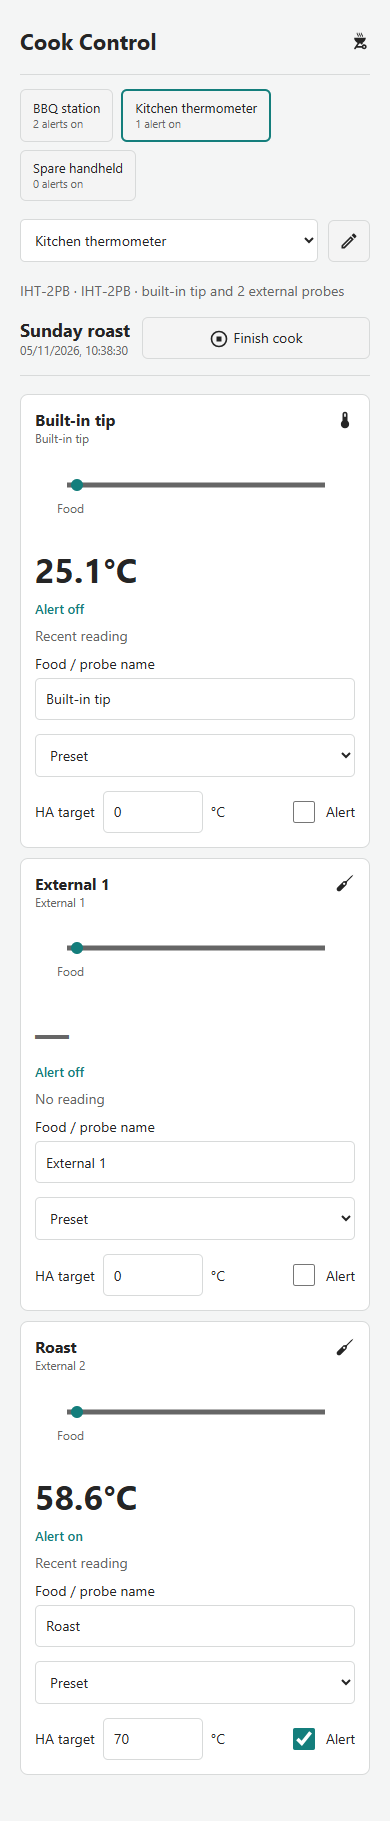
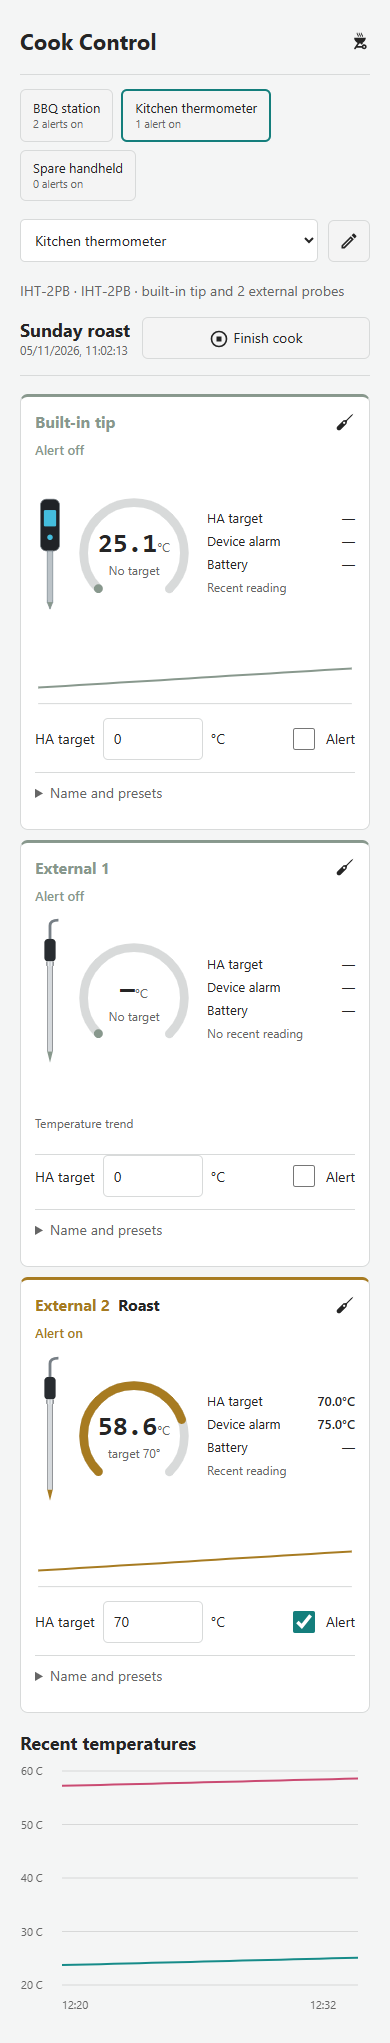
fix: retain Cook Control graphics and custom preset editor

diff --git a/examples/cook_control/www/inkbird-int/inkbird-cook-panel.js b/examples/cook_control/www/inkbird-int/inkbird-cook-panel.js
@@ -1,4 +1,5 @@
 import {escape as e, selectedDevice, formatTemperature as temp, csv, loadHistory, series} from './inkbird-cook-session.mjs?v=1.2.0';
+import {probeColor,probeFigure,dial,sparkline} from './inkbird-cook-visuals.mjs?v=1.2.0';
 
 const style = `
 :host{display:block;color:var(--primary-text-color);font:14px system-ui;letter-spacing:0;max-width:1400px;margin:0 auto;padding:12px 20px 28px}
@@ -13,16 +14,23 @@ h1{font-size:24px;margin:0}h2{font-size:18px;margin:0}h3{font-size:16px;margin:0
 header{display:flex;align-items:center;justify-content:space-between;gap:12px;flex-wrap:wrap;padding:14px 0 18px;border-bottom:1px solid var(--divider-color)}
 .toolbar,.row{display:flex;gap:10px;align-items:center;flex-wrap:wrap}.toolbar select{max-width:100%;flex:1;min-width:190px}.toolbar{margin:18px 0}
 .overview{display:flex;gap:8px;flex-wrap:wrap;margin-top:14px}.overview button{font-size:13px;text-align:left}.overview .chosen{border:2px solid var(--primary-color)}
-.grid{display:grid;grid-template-columns:repeat(auto-fit,minmax(min(100%,300px),1fr));gap:14px;margin:18px 0}
+.grid{display:grid;grid-template-columns:repeat(2,minmax(0,1fr));gap:14px;margin:18px 0}
 article{background:var(--ha-card-background,var(--card-background-color,#fff));border:1px solid var(--divider-color);border-radius:8px;padding:18px;min-width:0;overflow-wrap:anywhere}
-.reading{font-size:38px;font-weight:650;margin:16px 0 8px}.stale .reading{color:var(--secondary-text-color)}.status{font-size:13px;font-weight:600;color:var(--primary-color)}
-.probe{width:100%;height:58px;margin:12px 0}.probe line{stroke:var(--secondary-text-color);stroke-width:5}.probe text{fill:var(--secondary-text-color);font:12px system-ui}.probe circle{fill:var(--primary-color)}
+.status{font-size:13px;font-weight:600;color:var(--probe-color)}
+.probe-card{border-top:3px solid var(--probe-color)}.probe-tag{color:var(--probe-color);font-weight:700;margin-right:8px}
+.instrument{display:grid;grid-template-columns:30px 144px minmax(0,1fr);gap:14px;align-items:center;min-height:170px;margin:8px 0}.probe-figure{width:30px;height:166px;display:block;margin:auto}
+.dial{position:relative;width:136px;height:136px;margin:auto}.dial svg{width:100%;height:100%;display:block}.dial-label{position:absolute;inset:0;display:flex;flex-direction:column;align-items:center;justify-content:center;gap:3px}.dial-label strong{font:650 27px ui-monospace,monospace;white-space:nowrap}.dial-label small{font:13px system-ui}.dial-label span{font-size:12px;color:var(--secondary-text-color)}
+.metrics{display:grid;gap:7px;font-size:14px;min-width:0}.metrics div{display:flex;justify-content:space-between;gap:8px;flex-wrap:wrap}.metrics b{font-weight:600}.metrics small{font-size:12px}
+.spark{display:block;width:100%;height:64px;margin:8px 0}.spark-empty{height:64px;display:flex;align-items:center;font-size:12px;color:var(--secondary-text-color);border-bottom:1px solid var(--divider-color)}
+.probe-settings{border-top:1px solid var(--divider-color);padding-top:10px;margin-top:12px}.probe-settings summary{cursor:pointer;min-height:32px;color:var(--secondary-text-color)}.probe-settings .settings{padding-top:12px}.custom-preset{border-left:3px solid var(--primary-color);padding:12px;display:grid;gap:12px;background:var(--secondary-background-color)}
 .settings{display:grid;gap:14px}.error{border-left:4px solid var(--error-color,#c33);padding:12px;margin:12px 0;overflow-wrap:anywhere}
 .session{display:flex;justify-content:space-between;gap:12px;align-items:end;flex-wrap:wrap;padding:16px 0;border-bottom:1px solid var(--divider-color)}.session .field{flex:1;min-width:180px}
 .history{width:100%;border-collapse:collapse;margin:16px 0}.history td,.history th{padding:12px 8px;border-bottom:1px solid var(--divider-color);text-align:left;overflow-wrap:anywhere}.history button{text-align:left}
 canvas{display:block;width:100%;height:260px}.legend{display:flex;gap:12px;flex-wrap:wrap;margin:8px 0}.legend span{border-bottom:3px solid var(--line);padding:3px}
 .split{display:flex;justify-content:space-between;gap:8px;align-items:center}.split>*{min-width:0}.event{padding:8px 0;border-bottom:1px solid var(--divider-color)}
-@media(max-width:550px){h1{font-size:22px}.history th:nth-child(3),.history td:nth-child(3){display:none}.session button{flex:1}.reading{font-size:34px}.grid{gap:10px}article{padding:14px}}
+@media(max-width:760px){.grid{grid-template-columns:minmax(0,1fr)}}
+@media(max-width:550px){h1{font-size:22px}.history th:nth-child(3),.history td:nth-child(3){display:none}.session button{flex:1}.grid{gap:10px}article{padding:14px}.instrument{grid-template-columns:26px 128px minmax(0,1fr);gap:9px}.dial{width:124px;height:124px}.metrics{font-size:13px;gap:6px}}
+@media(max-width:360px){:host{padding-left:10px;padding-right:10px}.instrument{grid-template-columns:24px 120px minmax(0,1fr);gap:6px}.dial{width:116px;height:116px}.metrics div{display:block}.metrics b{display:block}}
 `;
 
 class CookPanel extends HTMLElement {
@@ -61,6 +69,7 @@ class CookPanel extends HTMLElement {
   render(force=false){
     if(!this.config||(!force&&this.shadowRoot.activeElement?.matches('input:not([type=checkbox]),select')))return;
     const d=this.selected();
+    this.openCards=new Set([...this.shadowRoot.querySelectorAll('details[open]')].map(el=>el.closest('[data-channel]')?.dataset.channel));
     this.shadowRoot.innerHTML=`<style>${style}</style><header><h1>Cook Control</h1><ha-icon icon="mdi:grill"></ha-icon></header>
       ${this.error?`<div class="error" role="alert">${e(this.error)}</div>`:''}
       ${this.backendStatus!=='active'?`<div class="error" role="alert">${this.t('Cook Control backend is not active. Alerts are not being processed.','Il backend Cook Control non e attivo. Gli avvisi non vengono elaborati.')}</div>`:''}
@@ -81,17 +90,26 @@ class CookPanel extends HTMLElement {
   renderChannel(d,layout){
     const c=d.channels[layout.id],name=this.channelName(d,layout,c);
     const statuses={off:this.t('Alert off','Avviso spento'),stale:this.t('Waiting for fresh readings','In attesa di letture recenti'),cooking:this.t('Alert on','Avviso attivo'),ready:this.t('Above target','Sopra soglia'),notified:this.t('Notification sent','Avviso inviato')};
-    const iht=d.model==='iht2pb',external=iht&&layout.id!=='1';
-    return `<article data-channel="${layout.id}" class="${c.fresh?'':'stale'}"><div class="split"><h3>${e(name)}</h3><ha-icon icon="mdi:thermometer${external?'-probe':''}"></ha-icon></div><small>${e(layout.name)}</small>
-      <svg class="probe" viewBox="0 0 300 58" role="img" aria-label="${iht?this.t('One temperature sensor','Un sensore temperatura'):this.t('Food at the tip, ambient at the handle','Cuore in punta, ambiente sul manico')}"><line x1="22" y1="25" x2="280" y2="25"/><circle cx="32" cy="25" r="6"/><text x="12" y="53">${this.t('Food','Cuore')}</text>${iht?'':`<circle cx="258" cy="25" r="6"/><text x="221" y="53">${this.t('Ambient','Ambiente')}</text>`}</svg>
-      <div class="reading">${temp(c.temperature)}</div><div class="status">${statuses[c.status]||e(c.status)}${c.status==='ready'?` &middot; ${Math.min(30,Math.floor(c.ready_seconds))}/30 s`:''}</div>
-      <p class="muted">${c.fresh?this.t('Recent reading','Lettura recente'):c.temperature==null?this.t('No reading','Nessuna lettura'):this.t('Last reading, not current','Ultima lettura, non attuale')}${!iht?` &middot; ${this.t('Ambient','Ambiente')} ${temp(c.ambient)}`:''}${c.battery!==null&&c.battery!==undefined?` &middot; ${c.battery}%`:''}</p>
-      <div class="settings"><label class="field">${this.t('Food / probe name','Pietanza / nome sonda')}<input data-setting="name" value="${e(c.name===layout.name?name:c.name)}" maxlength="100"></label>
-      <select data-preset aria-label="Preset"><option value="">${this.t('Preset','Preset')}</option>${[['Beef Brisket',93],['Chicken',74],['Medium Steak',57],['Pork Ribs',90],['Salmon',52]].map(([label,value])=>`<option value="${label}|${value}">${label} &middot; ${value}\u00b0C</option>`).join('')}<option value="custom">${this.t('My preset','Il mio preset')}</option></select>
+    const iht=d.model==='iht2pb',color=probeColor(c),editing=this.customEditor?.device===d.id&&this.customEditor?.channel===layout.id;
+    const status=c.status==='cooking'&&c.fresh&&c.target>0&&c.temperature>=c.target-5?this.t('Near target','Vicino alla soglia'):statuses[c.status]||e(c.status);
+    return `<article data-channel="${layout.id}" class="probe-card ${c.fresh?'':'stale'}" style="--probe-color:${color}"><div class="split"><h3><span class="probe-tag">${iht?e(layout.name):'P'+layout.id}</span>${e(name===layout.name?'':name)}</h3><ha-icon icon="mdi:thermometer-probe"></ha-icon></div>
+      <p class="status">${status}${c.status==='ready'?` &middot; ${Math.min(30,Math.floor(c.ready_seconds))}/30 s`:''}</p>
+      <div class="instrument">${probeFigure(d.model,layout.id,color)}${dial(c,{target:this.t('target','soglia'),noTarget:this.t('No target','Nessuna soglia')})}<div class="metrics">
+      ${!iht?`<div><span>${this.t('Ambient','Ambiente')}</span><b>${temp(c.ambient)}</b></div>`:''}
+      <div><span>${this.t('HA target','Soglia HA')}</span><b>${c.target>0?temp(c.target):'\u2014'}</b></div>
+      <div><span>${this.t(iht?'Device alarm':'Station alarm',iht?'Allarme IHT':'Allarme station')}</span><b>${temp(c.device_target)}</b></div>
+      <div><span>${this.t('Battery','Batteria')}</span><b>${Number.isFinite(c.battery)?`${c.battery}%`:iht&&Number.isFinite(c.battery_raw)?`${this.t('level','livello')} ${c.battery_raw}`:'\u2014'}</b></div>
+      ${c.battery_suspect?`<small>${this.t('Suspect battery report','Dato batteria sospetto')}</small>`:''}
+      <small>${c.fresh?this.t('Recent reading','Lettura recente'):this.t('No recent reading','Nessuna lettura recente')}</small></div></div>
+      ${sparkline(d.recent||[],layout.id,color,this.t('Temperature trend','Andamento temperatura'))}
       <div class="split"><label>${this.t('HA target','Soglia HA')} <input data-setting="target" type="number" min="0" max="350" step="1" value="${c.target}" aria-label="${this.t('Target in Celsius','Soglia in gradi Celsius')}"> \u00b0C</label><label><input data-setting="armed" type="checkbox" ${c.armed?'checked':''} ${this.busy?'disabled':''}>${this.t('Alert','Avviso')}</label></div>
+      <details class="probe-settings" ${this.openCards?.has(layout.id)||editing?'open':''}><summary>${this.t('Name and presets','Nome e preset')}</summary><div class="settings"><label class="field">${this.t('Food / probe name','Pietanza / nome sonda')}<input data-setting="name" value="${e(c.name===layout.name?name:c.name)}" maxlength="100"></label>
+      <select data-preset aria-label="Preset"><option value="">${this.t('Preset','Preset')}</option>${[['Beef Brisket',93],['Chicken',74],['Medium Steak',57],['Pork Ribs',90],['Salmon',52]].map(([label,value])=>`<option value="${label}|${value}">${label} &middot; ${value}\u00b0C</option>`).join('')}<option value="custom">${this.t('My preset','Il mio preset')}</option></select>
+      ${editing?this.renderCustomPreset():''}</div></details>
       ${c.status==='notified'?`<div class="row"><button data-reminder="snooze" title="${this.t('Repeat after the snooze interval','Ripeti dopo l\'intervallo di rinvio')}"><ha-icon icon="mdi:alarm-snooze"></ha-icon> Snooze</button><button data-reminder="rest"><ha-icon icon="mdi:timer-outline"></ha-icon> ${this.t('Rest','Riposo')}</button><button class="icon" data-reminder="dismiss" title="${this.t('Cancel reminders','Annulla promemoria')}"><ha-icon icon="mdi:bell-off-outline"></ha-icon></button></div>`:''}
-      ${c.snooze||c.rest?`<small>${this.t('Reminder','Promemoria')}: ${new Date((c.snooze||c.rest)*1000).toLocaleTimeString()}</small>`:''}</div></article>`;
+      ${c.snooze||c.rest?`<small>${this.t('Reminder','Promemoria')}: ${new Date((c.snooze||c.rest)*1000).toLocaleTimeString()}</small>`:''}</article>`;
   }
+  renderCustomPreset(){const draft=this.customEditor.draft;return `<div class="custom-preset"><h3>${this.t('My preset','Il mio preset')}</h3><label class="field">${this.t('Preset name','Nome preset')}<input data-custom="name" value="${e(draft.name)}" maxlength="100"></label><label>${this.t('Temperature','Temperatura')} <input data-custom="target" type="number" min="1" max="350" step="1" value="${draft.target}"> \u00b0C</label><div class="row"><button data-custom-action="save" title="${this.t('Save preset without changing the cook','Salva il preset senza cambiare la cottura')}"><ha-icon icon="mdi:content-save-outline"></ha-icon> ${this.t('Save','Salva')}</button><button data-custom-action="apply" class="primary">${this.t('Use on this probe','Usa su questa sonda')}</button><button class="icon" data-custom-action="cancel" title="${this.t('Close without applying','Chiudi senza applicare')}"><ha-icon icon="mdi:close"></ha-icon></button></div>${this.presetSaved?`<small>${this.t('Preset saved','Preset salvato')}</small>`:''}</div>`;}
   renderHistory(){
     return `<h2 style="margin-top:20px">${this.t('Cooking history','Storico cotture')}</h2><table class="history"><thead><tr><th>${this.t('Cook','Cottura')}</th><th>${this.t('Thermometer','Termometro')}</th><th>${this.t('Started','Inizio')}</th></tr></thead><tbody>${this.data.history.map(row=>`<tr><td><button data-history="${row.id}">${e(row.name)}${row.ended?'':` &middot; ${this.t('active','in corso')}`}</button></td><td>${e(row.device_name)}</td><td>${new Date(row.started*1000).toLocaleString()}</td></tr>`).join('')}</tbody></table>
       ${this.history?`<div class="split"><h2>${e(this.history.summary.name)}</h2><div class="row"><button data-export="csv"><ha-icon icon="mdi:download"></ha-icon> CSV</button><button data-export="json" title="${this.t('Download full session','Scarica sessione completa')}">JSON</button></div></div><div class="legend">${this.history.summary.layout.map((c,i)=>`<span style="--line:${['#168b89','#e38b19','#ca4a72','#6476d2'][i]}">${e(c.name)}</span>`).join('')}</div><canvas aria-label="${this.t('Recorded temperatures in Celsius','Temperature registrate in gradi Celsius')}" role="img"></canvas><small>${this.t('Solid: food. Dotted: ambient. Gaps: no recent reading.','Linea continua: cuore. Tratteggio: ambiente. Vuoti: nessuna lettura recente.')}</small>
@@ -104,10 +122,19 @@ class CookPanel extends HTMLElement {
     const start=this.shadowRoot.querySelector('#start');if(start)start.onclick=()=>this.act('start',{device_id:d.id,name:this.shadowRoot.querySelector('#cookname').value});
     const finish=this.shadowRoot.querySelector('#finish');if(finish)finish.onclick=()=>{if(confirm(this.t('Finish this cook and switch off only its alerts?','Terminare questa cottura e spegnere solo i suoi avvisi?')))this.act('finish',{device_id:d.id});};
     this.shadowRoot.querySelectorAll('[data-setting]').forEach(el=>el.onchange=()=>{const field=el.dataset.setting;this.act('configure',{device_id:d.id,channel:el.closest('[data-channel]').dataset.channel,settings:{[field]:field==='armed'?el.checked:field==='target'?Number(el.value):el.value}});});
-    this.shadowRoot.querySelectorAll('[data-preset]').forEach(el=>el.onchange=()=>{if(!el.value)return;let [name,target]=el.value.split('|');if(el.value==='custom'){name=this._hass.states['input_text.bbq_custom_name']?.state;target=this._hass.states['input_number.bbq_custom_target']?.state;}this.act('configure',{device_id:d.id,channel:el.closest('[data-channel]').dataset.channel,settings:{name,target:Number(target)}});});
+    this.shadowRoot.querySelectorAll('[data-preset]').forEach(el=>el.onchange=()=>{if(!el.value)return;const channel=el.closest('[data-channel]').dataset.channel;if(el.value==='custom'){const stored=this._hass.states['input_text.bbq_custom_name']?.state;this.customEditor={device:d.id,channel,draft:{name:stored&&!['unknown','unavailable'].includes(stored)?stored:this.t('Custom','Personalizzato'),target:Number(this._hass.states['input_number.bbq_custom_target']?.state)||60}};this.presetSaved=false;this.render(true);return;}const [name,target]=el.value.split('|');this.act('configure',{device_id:d.id,channel,settings:{name,target:Number(target)}});});
+    this.shadowRoot.querySelectorAll('[data-custom]').forEach(el=>el.oninput=()=>{this.customEditor.draft[el.dataset.custom]=el.dataset.custom==='target'?Number(el.value):el.value;this.presetSaved=false;});
+    this.shadowRoot.querySelectorAll('[data-custom-action]').forEach(el=>el.onclick=()=>this.customPreset(el.dataset.customAction));
     this.shadowRoot.querySelectorAll('[data-reminder]').forEach(el=>el.onclick=()=>this.act(el.dataset.reminder,{device_id:d.id,channel:el.closest('[data-channel]').dataset.channel}));
     this.shadowRoot.querySelectorAll('[data-history]').forEach(el=>el.onclick=async()=>{try{this.history=await loadHistory((...args)=>this.call(...args),el.dataset.history);this.error='';}catch(err){this.error=err.message;}this.render(true);});
     this.shadowRoot.querySelectorAll('[data-export]').forEach(el=>el.onclick=()=>{const format=el.dataset.export;const blob=new Blob([format==='csv'?csv(this.history):JSON.stringify(this.history,null,2)],{type:format==='csv'?'text/csv;charset=utf-8':'application/json'});const url=URL.createObjectURL(blob);const a=document.createElement('a');a.href=url;a.download=`cook-${this.history.summary.id}.${format}`;a.click();setTimeout(()=>URL.revokeObjectURL(url),1000);});
+  }
+  async customPreset(action){
+    if(action==='cancel'){this.customEditor=null;this.render(true);return;}
+    const editor=this.customEditor,draft=editor.draft,helper=this._hass.states['input_number.bbq_custom_target'];
+    if(!draft.name.trim()||draft.name.length>100||!Number.isFinite(draft.target)||draft.target<=0||draft.target>Math.min(350,helper?.attributes?.max??350)||draft.target<(helper?.attributes?.min??0)){this.error=this.t('Enter a preset name and a valid temperature.','Inserisci un nome e una temperatura valida.');this.render(true);return;}
+    if(action==='apply'){await this.act('configure',{device_id:editor.device,channel:editor.channel,settings:{name:draft.name.trim(),target:draft.target}});if(!this.error)this.customEditor=null;this.render(true);return;}
+    this.busy=true;try{await this._hass.callService('input_number','set_value',{entity_id:'input_number.bbq_custom_target',value:draft.target});await this._hass.callService('input_text','set_value',{entity_id:'input_text.bbq_custom_name',value:draft.name.trim()});this.presetSaved=true;this.error='';}catch(err){this.error=err.message||String(err);}finally{this.busy=false;this.render(true);}
   }
   draw(history){
     this.resize?.disconnect();const canvas=this.shadowRoot.querySelector('canvas');if(!canvas)return;

diff --git a/examples/cook_control/custom_components/inkbird_cook_control/engine.py b/examples/cook_control/custom_components/inkbird_cook_control/engine.py
@@ -29,6 +29,7 @@ class Engine:
         self.data = deepcopy(data) if data else {"devices": {}, "index": {}, "migrated": False}
         self.histories = {}
         self.pending = {}
+        self.live_history = {}
 
     def discover(self, descriptors):
         for descriptor in descriptors:
@@ -146,23 +147,12 @@ class Engine:
             sid = device["session"]
             history = self.histories.get(sid)
             current = readings.get(key, {})
+            recent = self.live_history.setdefault(key, [])
+            if not recent or now - recent[-1]["at"] >= SAMPLE_SECONDS:
+                recent.append(self.sample(device, current, now))
+                self.live_history[key] = recent[-120:]
             if history and (not history["samples"] or now - history["samples"][-1]["at"] >= SAMPLE_SECONDS):
-                history["samples"].append(
-                    {
-                        "at": now,
-                        "channels": {
-                            channel: {
-                                "temperature": row.get("temperature") if fresh(row, now) else None,
-                                "ambient": row.get("ambient") if fresh(row, now) else None,
-                                "battery": row.get("battery"),
-                                "target": config["target"],
-                                "armed": config["armed"],
-                            }
-                            for channel, config in device["channels"].items()
-                            if (row := current.get(channel, {})) is not None
-                        },
-                    }
-                )
+                history["samples"].append(self.sample(device, current, now))
                 self.data["index"][sid]["sample_count"] = len(history["samples"])
                 history["summary"] = deepcopy(self.data["index"][sid])
                 changed = True
@@ -213,6 +203,23 @@ class Engine:
                     changed = True
         warnings = self.warnings(readings, now, options or {})
         return notices + warnings, changed or bool(warnings)
+
+    @staticmethod
+    def sample(device, readings, now):
+        return {
+            "at": now,
+            "channels": {
+                channel: {
+                    "temperature": row.get("temperature") if fresh(row, now) else None,
+                    "ambient": row.get("ambient") if fresh(row, now) else None,
+                    "battery": row.get("battery"),
+                    "target": config["target"],
+                    "armed": config["armed"],
+                }
+                for channel, config in device["channels"].items()
+                if (row := readings.get(channel, {})) is not None
+            },
+        }
 
     def warnings(self, readings, now, options):
         notices = []
@@ -291,7 +298,8 @@ class Engine:
                     else "cooking"
                 )
             row["cook"] = deepcopy(self.data["index"].get(row["session"]))
-            row["recent"] = deepcopy(self.histories.get(row["session"], {}).get("samples", [])[-24:])
+            recorded = self.histories.get(row["session"], {}).get("samples", [])
+            row["recent"] = deepcopy((recorded or self.live_history.get(key, []))[-120:])
             result.append(row)
         return {
             "version": "1.2.0",

diff --git a/examples/cook_control/custom_components/inkbird_cook_control/__init__.py b/examples/cook_control/custom_components/inkbird_cook_control/__init__.py
@@ -74,6 +74,7 @@ def discover(hass):
                     "entity": entity,
                     "ambient_entity": None if iht else find(f"_probe_{index}_ambient_temp"),
                     "battery_entity": None if iht else find(f"_probe_{index}_battery"),
+                    "target_entity": find(f"_probe_{index}_target_high_temp"),
                 }
             )
         if len(layout) != (3 if iht else 4):
@@ -138,6 +139,8 @@ class Manager:
                     "temperature": temperature(self.hass, channel["entity"]),
                     "ambient": temperature(self.hass, channel["ambient_entity"]),
                     "battery": number(state_value(self.hass, channel["battery_entity"])),
+                    "device_target": temperature(self.hass, channel.get("target_entity")),
+                    "battery_raw": number(state_value(self.hass, device.get("battery_raw_entity"))),
                     "battery_suspect": (
                         self.hass.states.get(channel["battery_entity"]).attributes.get("report_suspect")
                         if self.hass.states.get(channel["battery_entity"] or "")

diff --git a/tests/test_cook_sessions.py b/tests/test_cook_sessions.py
@@ -226,3 +226,12 @@ def test_stall_waits_for_history_and_45_continuous_minutes(engine):
     for now in range(1000, 1000 + 3600, 30):
         notices.extend(engine.tick(readings(now, 60), now, {"stall": True})[0])
     assert len(notices) == 1 and notices[0]["kind"] == "stall"
+
+
+def test_unarmed_device_sparkline_is_bounded_and_does_not_create_a_cook(engine):
+    for now in range(1000, 1000 + 5000, 30):
+        assert not engine.tick(readings(now, 60), now)[0]
+    snapshot = engine.snapshot(readings(6000, 60), 6000)
+    assert all(len(d["recent"]) == 120 and d["session"] is None for d in snapshot["devices"])
+    assert not engine.data["index"]
+    assert all(not c["armed"] and c["target"] == 0 for d in snapshot["devices"] for c in d["channels"].values())

diff --git a/examples/cook_control/build_bundle.py b/examples/cook_control/build_bundle.py
@@ -12,6 +12,7 @@ FILES = {
     "www/inkbird-int/inkbird-int-cook-control.js": "www/inkbird-int/inkbird-int-cook-control.js",
     "www/inkbird-int/inkbird-cook-panel.js": "www/inkbird-int/inkbird-cook-panel.js",
     "www/inkbird-int/inkbird-cook-session.mjs": "www/inkbird-int/inkbird-cook-session.mjs",
+    "www/inkbird-int/inkbird-cook-visuals.mjs": "www/inkbird-int/inkbird-cook-visuals.mjs",
     "custom_components/inkbird_cook_control/__init__.py": "custom_components/inkbird_cook_control/__init__.py",
     "custom_components/inkbird_cook_control/engine.py": "custom_components/inkbird_cook_control/engine.py",
     "custom_components/inkbird_cook_control/manifest.json": "custom_components/inkbird_cook_control/manifest.json",

diff --git a/tests/test_cook_control.py b/tests/test_cook_control.py
@@ -266,7 +266,7 @@ def test_bundle_is_reproducible_and_has_no_household_or_development_files(tmp_pa
     builder["build"](second)
     assert first.read_bytes() == second.read_bytes()
     with ZipFile(first) as archive:
-        assert len(archive.namelist()) == 17
+        assert len(archive.namelist()) == 18
         assert set(archive.namelist()) == set(builder["FILES"].values()) | {"cook-control/LICENSE.integration"}
         for filename in archive.namelist():
             assert ".." not in Path(filename).parts

diff --git a/RELEASE_AUDIT.md b/RELEASE_AUDIT.md
@@ -17,12 +17,12 @@ The integration supports local BLE, local Tuya LAN where the model and DP map ha
 
 ## Cook Control 1.2.0, 2026-11-05
 
-- Optional preview bundle attached to `v0.2.11-beta.5`. A small separate backend owns per-device cooks, target/notification latches and private archives; it reads registered INT/IHT entities and sends through the existing notification router. It never calls a thermometer write service.
+- Optional preview bundle attached to stable `v0.2.11`. A small separate backend owns per-device cooks, target/notification latches and private archives; it reads registered INT/IHT entities and sends through the existing notification router. It never calls a thermometer write service.
 - Three simultaneous sessions on one INT-14-BW and two IHT-2PB devices were recorded, finished and exported on HA 2026.11.0. Legacy helper values were preserved. The user confirmed the two selected Echo announcements and silent LG popup; a true fresh-device threshold crossing remains pending.
-- 315 Python tests cover isolation, migration, restart latches, reminders, histories, spoken food names and explicit Echo destinations. Node checks cover the canonical strategy even with a cached old constructor. Desktop/mobile preview checks verify 4/3/3 food-channel layouts, no horizontal overflow, and no HA writes on view changes.
+- The Python suites cover isolation, migration, restart latches, reminders, histories, spoken food names and explicit Echo destinations. Node checks cover the canonical strategy even with a cached old constructor. Desktop/mobile checks verify 4/3/3 layouts, illustrated probes, circular gauges, no horizontal overflow, view-only selection, and custom preset save/apply isolation.
 - Upgrade instructions replace the strategy with `custom:inkbird-cook-control`, keep one versioned module resource, and explain the obsolete 1.1.0 confirmation dialog. Images are isolated previews with declared sample data, not screenshots of a private installation.
-- The deterministic optional bundle has 17 allowlisted entries, including the backend. No private device references, captures, tools, secrets or caches belong in it. Gitleaks and TruffleHog report no secrets; detect-secrets reports no findings in Cook Control and only existing reviewed field-name/UI-label matches elsewhere.
-- Main integration runtime is unchanged from beta.4 except for its manifest version. Integration stable remains v0.2.10; users can install the dashboard ZIP without the BLE beta. Publication is gated on Tests/HACS/Hassfest for the commit/tag and a downloaded-asset hash match.
+- The deterministic optional bundle has 18 allowlisted entries, including the backend and visual module. No private device references, captures, tools, secrets or caches belong in it. Gitleaks and TruffleHog report no secrets; detect-secrets reports no findings in Cook Control and only existing reviewed field-name/UI-label matches elsewhere.
+- The stable release is prepared in an isolated branch based on v0.2.10. Its thermometer Python runtime is byte-identical to that baseline except for the manifest version. Main retains the pending BLE changes under 0.2.12 development. Publication is gated on Tests/HACS/Hassfest for the stable commit/tag and a downloaded-asset hash match.
 
 ## Cook Control 1.1.0, 2026-11-04
 
@@ -64,11 +64,11 @@ The integration supports local BLE, local Tuya LAN where the model and DP map ha
 
 ## Release State
 
-Prerelease `v0.2.11-beta.5` publishes optional Cook Control 1.2.0 with independent
+Stable `v0.2.11` publishes optional Cook Control 1.2.0 with independent
 concurrent INT/IHT cooks, food-name announcements, persistent history and an
-updated showcase. Integration runtime is unchanged from beta.4 apart from the
-manifest version. The bundle also works with the stable integration and does not
-require installing the Bluetooth beta. See [Cook Control validation](examples/cook_control/VALIDATION.md).
+updated showcase. Its integration runtime is unchanged from v0.2.10 apart from
+the manifest version. The bundle also works with v0.2.10 and does not require
+installing the Bluetooth beta. See [Cook Control validation](examples/cook_control/VALIDATION.md).
 
 Prerelease `v0.2.11-beta.3` enabled continuous read-only GATT polling for
 INT-11I-B, following @tolixx's measurements in issue #9. Its decoder, entity
@@ -77,7 +77,7 @@ profile-level change; other models retain their beta.2 behavior. The
 packaged update still needs the reporter's follow-up on real hardware.
 
 The beta also retains the INT-12-BW parser and reconnect work from beta.1
-and beta.2. Stable remains `v0.2.10`. See the dated audits below.
+and beta.2. Those changes remain outside the stable v0.2.11 branch. See the dated audits below.
 
 Release `v0.2.10` adds the optional INT-14-BW Cook Control bundle, native Alexa/TV notification routing, bilingual setup guides and real dashboard screenshots. HACS still installs only the integration; the optional ZIP is installed separately. Runtime Python files are unchanged from `v0.2.7`; only the manifest version is bumped. The release retains the model photo gallery, Options/reload fixes and existing model-support boundaries.
 

diff --git a/examples/cook_control/VALIDATION.md b/examples/cook_control/VALIDATION.md
@@ -2,13 +2,14 @@
 
 ## Cook Control 1.2.0 Preview, 2026-11-05
 
-- 315 Python tests pass, including independent three-device alert latches, per-channel edits, restart recovery, migration, history gaps, friendly spoken names, battery/stall guards and explicit Alexa group membership. These include isolated HA boundary tests, not a substitute for physical cooking tests.
+- 316 Python tests pass on the development branch and 242 on the isolated stable-release branch. They cover independent three-device alert latches, per-channel edits, restart recovery, migration, history gaps, friendly spoken names, battery/stall guards and explicit Alexa group membership. These include isolated HA boundary tests, not a substitute for physical cooking tests.
 - Node frontend contracts pass. Playwright/Edge checks at 1440px and 390px verify four INT food cards and three cards per IHT, no horizontal overflow, no JavaScript errors, and no HA write calls when switching the view.
+- Illustrated probes, circular gauges and per-channel mini-graphs are retained. The custom preset editor is tested through opening, editing, cancelling, saving without target changes, and applying only to the selected device/channel. HA target/arming state is not changed by opening or saving a preset.
 - Installed on HA 2026.11.0 after backup and one authorized restart. Backend loaded successfully and discovered one INT-14-BW and two IHT-2PB devices through stable registry identities. Existing protected helper values survived unchanged.
 - Recorded three simultaneous sessions clearly named as installation checks, then finished and exported each one. No fake temperature states, armed alerts or threshold changes were used. With thermometers not supplying recent data, the records correctly contain gaps.
 - Verified the real dashboard selector, archive and CSV download. One end-to-end notification-router test called the two explicitly configured Echos and the configured LG webOS popup service. The trace finished without errors; monitored speaker/TV volumes were unchanged. This is software-path evidence, not proof of audible or visible physical delivery.
 - The user subsequently confirmed both Echo audio and the G5 popup after checking remotely. The repeated test again targeted only the two selected Echos and the TV service; thresholds and the user's current volumes remained unchanged. No fresh real-device threshold crossing has been tested with this backend yet.
-- Integration/domain/driver code is unchanged apart from the prerelease manifest version. The canonical strategy was tested against a pre-existing cached single-cook constructor; it does not reuse it. Installation guides explicitly migrate that strategy to prevent the old reset warning.
+- The stable release branch retains the v0.2.10 integration/domain/driver code apart from the manifest version. The canonical strategy was tested against a pre-existing cached single-cook constructor; it does not reuse it. Installation guides explicitly migrate that strategy to prevent the old reset warning.
 
 ## Cook Control 1.1.0
 
@@ -113,10 +114,10 @@ metadata; it includes no live configuration or captured diagnostics.
 
 ## Publication Boundary
 
-Cook Control 1.2.0 is an optional preview bundle attached to v0.2.11-beta.5. Integration
-runtime is unchanged from beta.4 apart from the manifest version. The INT-11I-B
+Cook Control 1.2.0 is an optional preview bundle attached to stable v0.2.11. Integration
+runtime is unchanged from v0.2.10 apart from the manifest version. The INT-11I-B
 and INT-12-BW connection changes remain beta work; they are not needed for this
-dashboard. Stable integration v0.2.10 remains available.
+dashboard. The bundle can also be installed alongside v0.2.10.
 
 HACS does not automatically install the dashboard: the package requires the
 documented configuration copy and resource registration. The IHT integration

diff --git a/README.md b/README.md
@@ -27,9 +27,9 @@ Use your **INT-14-BW and IHT-2PB thermometers together**. Each keeps its own foo
 
 **Keep the cook, not just the current temperature.** Start a named session, then revisit its graph, target changes and alerts in History. Download readings as CSV or the full session as JSON. Archives stay in HA, independently of Recorder cleanup.
 
-**[Download Cook Control 1.2.0](https://github.com/zampix1/ha-inkbird-int14/releases/download/v0.2.11-beta.5/inkbird-cook-control-1.2.0.zip)** &nbsp; / &nbsp; **[Install guide](https://github.com/zampix1/ha-inkbird-int14/blob/main/examples/cook_control/README.md)** &nbsp; / &nbsp; **[Guida italiana](https://github.com/zampix1/ha-inkbird-int14/blob/main/examples/cook_control/README.it.md)**
+**[Download Cook Control 1.2.0](https://github.com/zampix1/ha-inkbird-int14/releases/download/v0.2.11/inkbird-cook-control-1.2.0.zip)** &nbsp; / &nbsp; **[Install guide](https://github.com/zampix1/ha-inkbird-int14/blob/main/examples/cook_control/README.md)** &nbsp; / &nbsp; **[Guida italiana](https://github.com/zampix1/ha-inkbird-int14/blob/main/examples/cook_control/README.it.md)**
 
-Start with working thermometer entities. The ZIP contains the optional Cook Control backend, YAML package and dashboard files; the new cards do not need button-card, card-mod or mini-graph-card. **HACS installs the thermometer integration, not this separate bundle.** The ZIP works with the stable integration: its download is attached to beta.5, but you do not need the beta's Bluetooth changes to use it. The backend currently requires an administrator HA account.
+Start with working thermometer entities. The ZIP contains the optional Cook Control backend, YAML package and dashboard files; the new cards do not need button-card, card-mod or mini-graph-card. **HACS installs the thermometer integration, not this separate bundle.** The ZIP is attached to stable v0.2.11 and also works with v0.2.10. You do not need the development branch's Bluetooth changes. The backend currently requires an administrator HA account.
 
 **Echo speaks; the TV shows silent text.** Use one Echo or an explicit announcement group, leaving bedrooms out. Native Alexa announcements use Alexa Media Player, not OpenAI. The new router test reached both chosen Echos and the LG popup, confirmed by the user. Three simultaneous sessions, view switching and history export were also checked on HA; a real threshold crossing with the new backend is still pending. Targets, completed-alert latches and reminder deadlines persist across restarts. See the [test notes](https://github.com/zampix1/ha-inkbird-int14/blob/main/examples/cook_control/VALIDATION.md).
 

diff --git a/CHANGELOG.md b/CHANGELOG.md
@@ -1,13 +1,19 @@
 # Changelog
 
-## 0.2.11-beta.5 - Cook Control 1.2.0
+## Unreleased - 0.2.12 Development
+
+- The development branch retains the pending INT-12-BW and INT-11I-B BLE work. It is not included in stable v0.2.11, which is built from the v0.2.10 thermometer runtime.
+
+## 0.2.11 - Cook Control 1.2.0
+
+- Retain illustrated probes, circular gauges, station alarm/battery details and per-probe mini-graphs above the new independent-cook backend. Restore the custom preset editor, with separate Save and Apply commands; opening or saving it does not change a live target.
 
 - Give each INT-14-BW and IHT-2PB its own cook, targets, food names and alarm latches. The thermometer selector changes only the browser view; it never disarms another device or clears its targets.
 - Add an optional `inkbird_cook_control` backend to the separate dashboard bundle. It reads existing HA entities and stores private session archives, sampled temperatures, target changes and notification results. INT/IHT protocol drivers and integration versions are unchanged.
 - Add friendly thermometer names and food-name announcements, concurrent-cook overview, history graphs and authenticated CSV/JSON export. Preserve the existing Echo/TV router and add an explicit multi-Echo announcement destination, separate from silent TV popups.
 - Migrate the formerly selected cook once, preserve existing helper values and retire the shared single-cook automations. Targets, completed alerts and reminder deadlines persist across restarts.
 - Use the new `custom:inkbird-cook-control` strategy so cached single-cook constructors cannot bring back the old reset-on-switch dialog. Update English/Italian install and cache-recovery steps, preview images and the HACS showcase.
-- Publish the optional dashboard ZIP separately; it works with stable integration v0.2.10 too. Thermometer runtime differs from beta.4 only in the manifest version. This release does not promote the pending INT-11I-B / INT-12-BW Bluetooth work to stable.
+- Publish the optional dashboard ZIP separately; it works with stable integration v0.2.10 too. The stable release is built from v0.2.10 and changes no thermometer runtime code apart from the manifest version. Pending INT-11I-B / INT-12-BW Bluetooth work stays on the development branch.
 
 ## 0.2.11-beta.4
 

diff --git a/examples/cook_control/README.it.md b/examples/cook_control/README.it.md
@@ -3,9 +3,9 @@
 Station e due IHT accesi insieme? Ognuno ha le proprie soglie e i propri avvisi.
 Cambiare termometro cambia solo la vista: le altre cotture continuano.
 
-**[Scarica Cook Control 1.2.0](https://github.com/zampix1/ha-inkbird-int14/releases/download/v0.2.11-beta.5/inkbird-cook-control-1.2.0.zip)**.
-Il pacchetto in anteprima e' allegato alla prerelease, ma funziona anche con i
-driver stabili. Il vecchio ZIP 1.1.0 segue ancora una cottura alla volta.
+**[Scarica Cook Control 1.2.0](https://github.com/zampix1/ha-inkbird-int14/releases/download/v0.2.11/inkbird-cook-control-1.2.0.zip)**.
+Il pacchetto in anteprima e' allegato alla stabile v0.2.11 e funziona anche con
+la v0.2.10. Il vecchio ZIP 1.1.0 segue ancora una cottura alla volta.
 [English guide](README.md).
 
 ## Installazione
@@ -67,6 +67,13 @@ Nel campo della sonda scrivi la pietanza: "Musetto", "Pollo", "Brisket".
 Alexa usera' quel nome: **"Musetto ha raggiunto 85 gradi"**. Modello e numero
 fisico della sonda restano visibili per orientarti, senza finire per forza
 nell'annuncio. Se lasci il nome generico, l'annuncio distingue sonda e termometro.
+
+Le schede mantengono sonda disegnata, quadrante circolare e mini-grafico.
+Apri **Nome e preset** sotto la scheda, poi scegli **Il mio preset**: compaiono
+nome e temperatura da modificare. **Salva** conserva il preset senza toccare
+la cottura; **Usa su questa sonda** lo applica soltanto a quel canale.
+Chiudere l'editor non fa nessuna delle due cose. I mini-grafici mostrano fino
+a un'ora di letture recenti; lo storico della sessione conserva tutta la cottura.
 
 Imposta la soglia HA e attiva l'avviso. Parte anche la registrazione della cottura.
 Puoi avviare prima lo storico, dandogli un nome, senza attivare nessun allarme.

diff --git a/examples/cook_control/README.md b/examples/cook_control/README.md
@@ -3,9 +3,9 @@
 One station, two handhelds, three different cooks. Each keeps its own targets and
 alerts. Switching thermometer only changes what you see.
 
-**[Download Cook Control 1.2.0](https://github.com/zampix1/ha-inkbird-int14/releases/download/v0.2.11-beta.5/inkbird-cook-control-1.2.0.zip)**.
-This preview bundle is attached to the integration prerelease, but works with the
-stable thermometer drivers too. The older 1.1.0 ZIP has the single-cook design.
+**[Download Cook Control 1.2.0](https://github.com/zampix1/ha-inkbird-int14/releases/download/v0.2.11/inkbird-cook-control-1.2.0.zip)**.
+This preview bundle is attached to stable integration v0.2.11 and works with
+v0.2.10 too. The older 1.1.0 ZIP has the single-cook design.
 [Guida in italiano](README.it.md).
 
 ## Install
@@ -70,6 +70,13 @@ such as "Smoker" or "Kitchen thermometer". Each channel also has a food/probe na
 Those are the names used in announcements. Alexa says "Brisket has reached
 85 degrees", not a device code or an entity ID. A channel without a food name
 uses its physical probe label and the thermometer's friendly name.
+
+The probe cards keep their illustrated probe, circular temperature gauge and
+mini-graph. **Name and presets** opens the controls below each card. Choose
+**My preset** to edit its name and temperature. **Save** stores that preset
+without changing the cook; **Use on this probe** applies it only to that channel.
+Closing the editor does neither. The live mini-graphs show up to an hour of
+recent readings; the session archive keeps the whole recorded cook.
 
 Set the HA target, then enable its alert. This also starts recording if that
 thermometer has no active cook. You can instead name a cook and start recording
